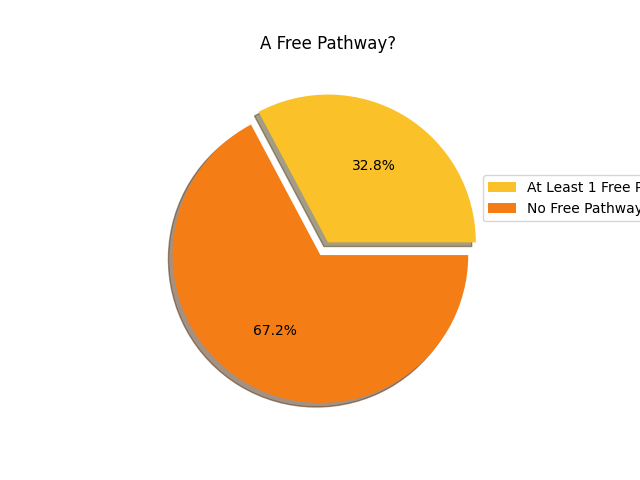
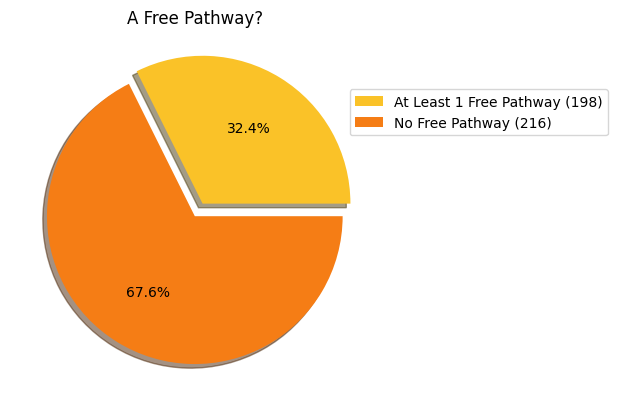
cleaned images and cleaned pathways text

diff --git a/index.html b/index.html
@@ -345,33 +345,55 @@ kbd {
 
 <p>Over the course of January 1, 2025 to October 1, 2025 a total of: <strong>402</strong> articles have been published by Brock Researchers.</p>
 
+<p>The Brock Library <a href="https://brocku.ca/library/open-access/">website</a> explains the dynamics of Open Access is detail. </p>
+
+<p>The most important detail here is that Open Access articles are available to readers <strong>without any payment</strong>!</p>
+
+<p>Sometimes a journal charges an author processing charge <strong>(APC)</strong> to  make an article open access. This happens for both closed journals with some Open Access content and for totally open access journals. </p>
+
+<p>Sometimes it is possible to <strong>publish an earlier version</strong> of a closed journal article in a place like the <a href="https://brocku.scholaris.ca/home">Brock University Digital Repository</a> to have it become Open Access.  We call this having a Green Open Access Pathway.</p>
+
+<p>Does this sound confusing? Well it is.</p>
+
 <h3 id="toc_4">Open Access versus Closed</h3>
 
-<p>The Brock Library <a href="https://brocku.ca/library/open-access/">website</a> explains the dynamics of Open Access is detail.</p>
+<p>The following graph show the proportion of closed and open access articles published by Brock researchers.</p>
 
 <p><img src="Open_Access_versus_Closed.png" alt="OA vs non-OA"></p>
 
 <h4 id="toc_5">Colours of Open Access</h4>
 
-<p>The different colours of Open Access represent the different classes of Open Access. The pie graph below shows the breakdown of these categories of the Brock published journal articles.</p>
+<p>We can now examine the the <strong>different colours</strong> of Open Access journals published. The pie graph below shows the breakdown of these categories versus the closed articles published.</p>
 
 <p><img src="Colours_of_Open_Access.png" alt="Colors of Open Access"></p>
 
-<h4 id="toc_6">Green Open Access pathways?</h4>
+<h4 id="toc_6">Green Open Access</h4>
 
-<p>When publishing in a closed journal there is often something called a <em>green pathway</em> that will allow the author to either buy out Open Access rights to the article or to allow them to deposit a certain version of their article to the Brock University Digital Repository. The breakdown of what Green pathways exist for Brock author is shown in the following pie graphs.</p>
+<!-- When publishing in a closed journal there is often something called a _green pathway_ that will allow the author to either buy out Open Access rights to the article or to allow them to deposit a certain version of their article to the Brock University Digital Repository. The breakdown of what Green pathways exist for Brock author is shown in the following pie graphs.
 
-<p><img src="One_Free_Pathway.png" alt="One Free Pathway"></p>
+![One Free Pathway](One_Free_Pathway.png) -->
 
-<h4 id="toc_7">Outreach to achieve Green!</h4>
+<h4 id="toc_7">Paid for Pathways for Closed Articles</h4>
 
-<p>The library is developing a program of contacting Brock affliated authors of Green eligible journal articles to encourage them to submit an eligible version into the Brock Digital Repository. All researchers will need to is copy and paste the DOI of their paper and upload a PDF copy to a <a href="">form</a>.</p>
+<p>As described above we can sometimes achieve Green Open Access by posting a version of an article or by paying a fee. The following graph shows how many closed papers have at least one paid for pathway to achieve some version of open access.</p>
+
+<p><img src="Paid_For_Option_Closed_Articles.png" alt="One Paid For Pathway"></p>
+
+<h4 id="toc_8">A Free Pathway for Closed Articles</h4>
+
+<p>In contrast, the following graph shows how many closed papers have at least one free pathway to achieve some version of open access. This means that there is a <strong>free</strong> way to make <strong>128</strong> closed articles Open Access!</p>
+
+<p><img src="Free_Option_Closed_Articles.png" alt="One Paid For Pathway"></p>
+
+<h4 id="toc_9">Outreach for Open Access!</h4>
+
+<p>The library is developing a program to contact the Brock affliated authors of these <strong>128</strong> articles to encourage them to submit an eligible version into the Brock Digital Repository. All researchers will need to is copy and paste the DOI of their paper and upload a PDF copy to a <a href="">form</a>.</p>
 
 <p><img src="syp_form.png" alt="Share Your Papers"></p>
 
-<p>Expect an email soon with more details about this.</p>
+<p>If you published recently and fall in this category, expect an email soon with more details about this.</p>
 
-<h2 id="toc_8">APCs</h2>
+<h2 id="toc_10">APCs</h2>
 
 <p>Some publishers enable Open Access through the payment of an additional Author Processing Charge (APC). This is on top of regular subscription costs. All figures in CAD</p>
 
@@ -384,7 +406,7 @@ kbd {
 
 <p>The Brock Library now has a collection of Transformative Agreements with some publishers that will offer some <a href="https://brocku.ca/library/open-access/open-access-investments/#1675264614266-ad3c5d97-5fef">discounts</a> to APC charges.</p>
 
-<h2 id="toc_9">Popular Titles and Popular Publishers</h2>
+<h2 id="toc_11">Popular Titles and Popular Publishers</h2>
 
 <p>Some journal titles are popular with Brock Authors.</p>
 
@@ -392,7 +414,7 @@ kbd {
 
 <p><img src="Top_10_Publishers.png" alt="bar graph of popular publishers"></p>
 
-<h2 id="toc_10">Reproducibility</h2>
+<h2 id="toc_12">Reproducibility</h2>
 
 <p>This data is built with a few assumptions involved and outlined below</p>
 
@@ -411,7 +433,7 @@ kbd {
 
 <p>If you have an idea for what to add to this report please get in touch.</p>
 
-<h2 id="toc_11">Acknowledgements</h2>
+<h2 id="toc_13">Acknowledgements</h2>
 
 <p>The data in this analysis was sourced from</p>
 
@@ -423,7 +445,7 @@ kbd {
 
 <p>Special Thanks to Erin Moorhead, Research Lifecycle Intern</p>
 
-<h2 id="toc_12">Further Information</h2>
+<h2 id="toc_14">Further Information</h2>
 
 <ul>
 <li>Consult our <a href="">Getting Your Research Out</a> Guide for more information</li>

diff --git a/README.md b/README.md
@@ -11,31 +11,53 @@ This inaugural report is being released during [Open Access Week 2025](https://w
 
 Over the course of January 1, 2025 to October 1, 2025 a total of: **402** articles have been published by Brock Researchers.
 
+The Brock Library [website](https://brocku.ca/library/open-access/) explains the dynamics of Open Access is detail. 
+
+The most important detail here is that Open Access articles are available to readers **without any payment**!
+
+Sometimes a journal charges an author processing charge **(APC)** to  make an article open access. This happens for both closed journals with some Open Access content and for totally open access journals. 
+
+Sometimes it is possible to **publish an earlier version** of a closed journal article in a place like the [Brock University Digital Repository](https://brocku.scholaris.ca/home) to have it become Open Access.  We call this having a Green Open Access Pathway.
+
+Does this sound confusing? Well it is.
+
 ### Open Access versus Closed
 
-The Brock Library [website](https://brocku.ca/library/open-access/) explains the dynamics of Open Access is detail.
+The following graph show the proportion of closed and open access articles published by Brock researchers.
 
 ![OA vs non-OA](Open_Access_versus_Closed.png)
 
 #### Colours of Open Access
 
-The different colours of Open Access represent the different classes of Open Access. The pie graph below shows the breakdown of these categories of the Brock published journal articles.
+We can now examine the the **different colours** of Open Access journals published. The pie graph below shows the breakdown of these categories versus the closed articles published.
 
 ![Colors of Open Access](Colours_of_Open_Access.png)
 
-#### Green Open Access pathways?
+#### Green Open Access
 
-When publishing in a closed journal there is often something called a _green pathway_ that will allow the author to either buy out Open Access rights to the article or to allow them to deposit a certain version of their article to the Brock University Digital Repository. The breakdown of what Green pathways exist for Brock author is shown in the following pie graphs.
+<!-- When publishing in a closed journal there is often something called a _green pathway_ that will allow the author to either buy out Open Access rights to the article or to allow them to deposit a certain version of their article to the Brock University Digital Repository. The breakdown of what Green pathways exist for Brock author is shown in the following pie graphs.
 
-![One Free Pathway](One_Free_Pathway.png)
+![One Free Pathway](One_Free_Pathway.png) -->
 
-#### Outreach to achieve Green!
+#### Paid for Pathways for Closed Articles
 
-The library is developing a program of contacting Brock affliated authors of Green eligible journal articles to encourage them to submit an eligible version into the Brock Digital Repository. All researchers will need to is copy and paste the DOI of their paper and upload a PDF copy to a [form]().
+As described above we can sometimes achieve Green Open Access by posting a version of an article or by paying a fee. The following graph shows how many closed papers have at least one paid for pathway to achieve some version of open access.
+
+![One Paid For Pathway](Paid_For_Option_Closed_Articles.png)
+
+#### A Free Pathway for Closed Articles
+
+In contrast, the following graph shows how many closed papers have at least one free pathway to achieve some version of open access. This means that there is a **free** way to make **128** closed articles Open Access!
+
+![One Paid For Pathway](Free_Option_Closed_Articles.png)
+
+#### Outreach for Open Access!
+
+The library is developing a program to contact the Brock affliated authors of these **128** articles to encourage them to submit an eligible version into the Brock Digital Repository. All researchers will need to is copy and paste the DOI of their paper and upload a PDF copy to a [form]().
 
 ![Share Your Papers](syp_form.png)
 
-Expect an email soon with more details about this.
+If you published recently and fall in this category, expect an email soon with more details about this.
 
 ## APCs
 
